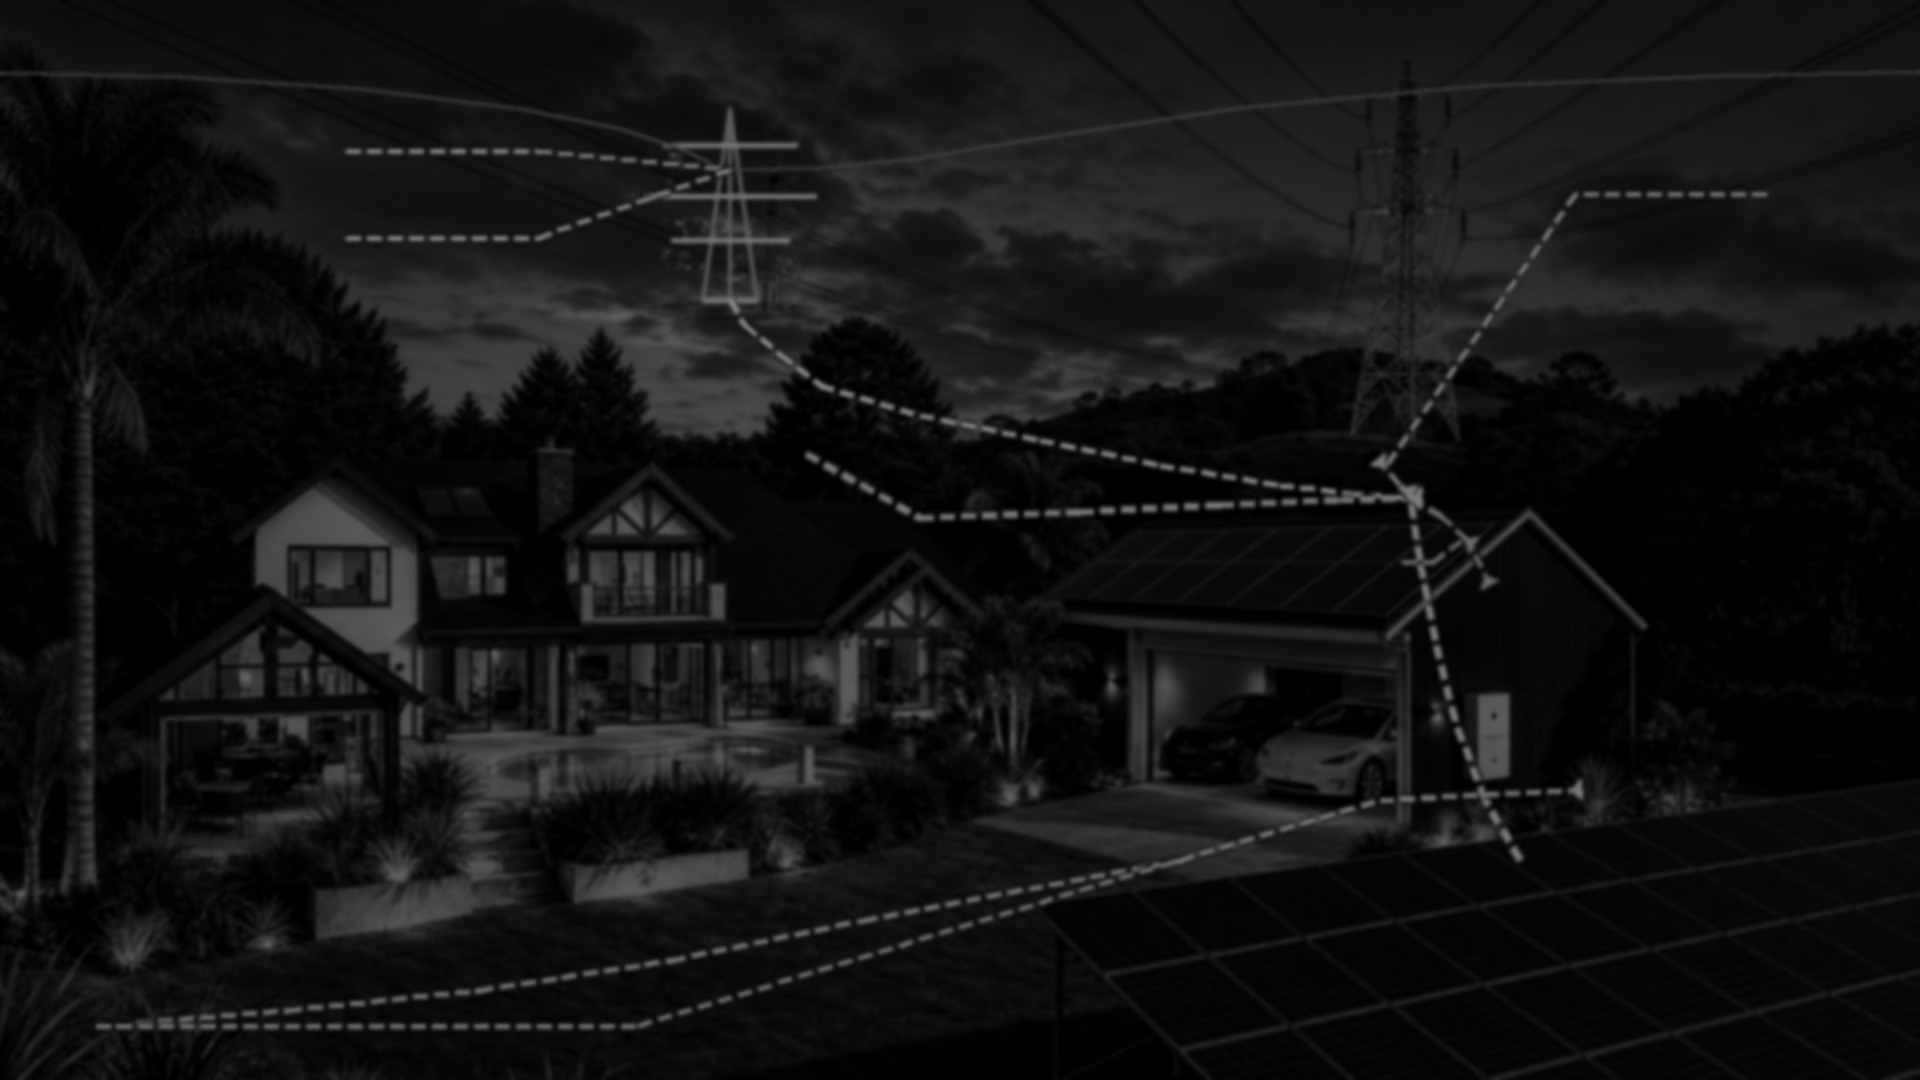
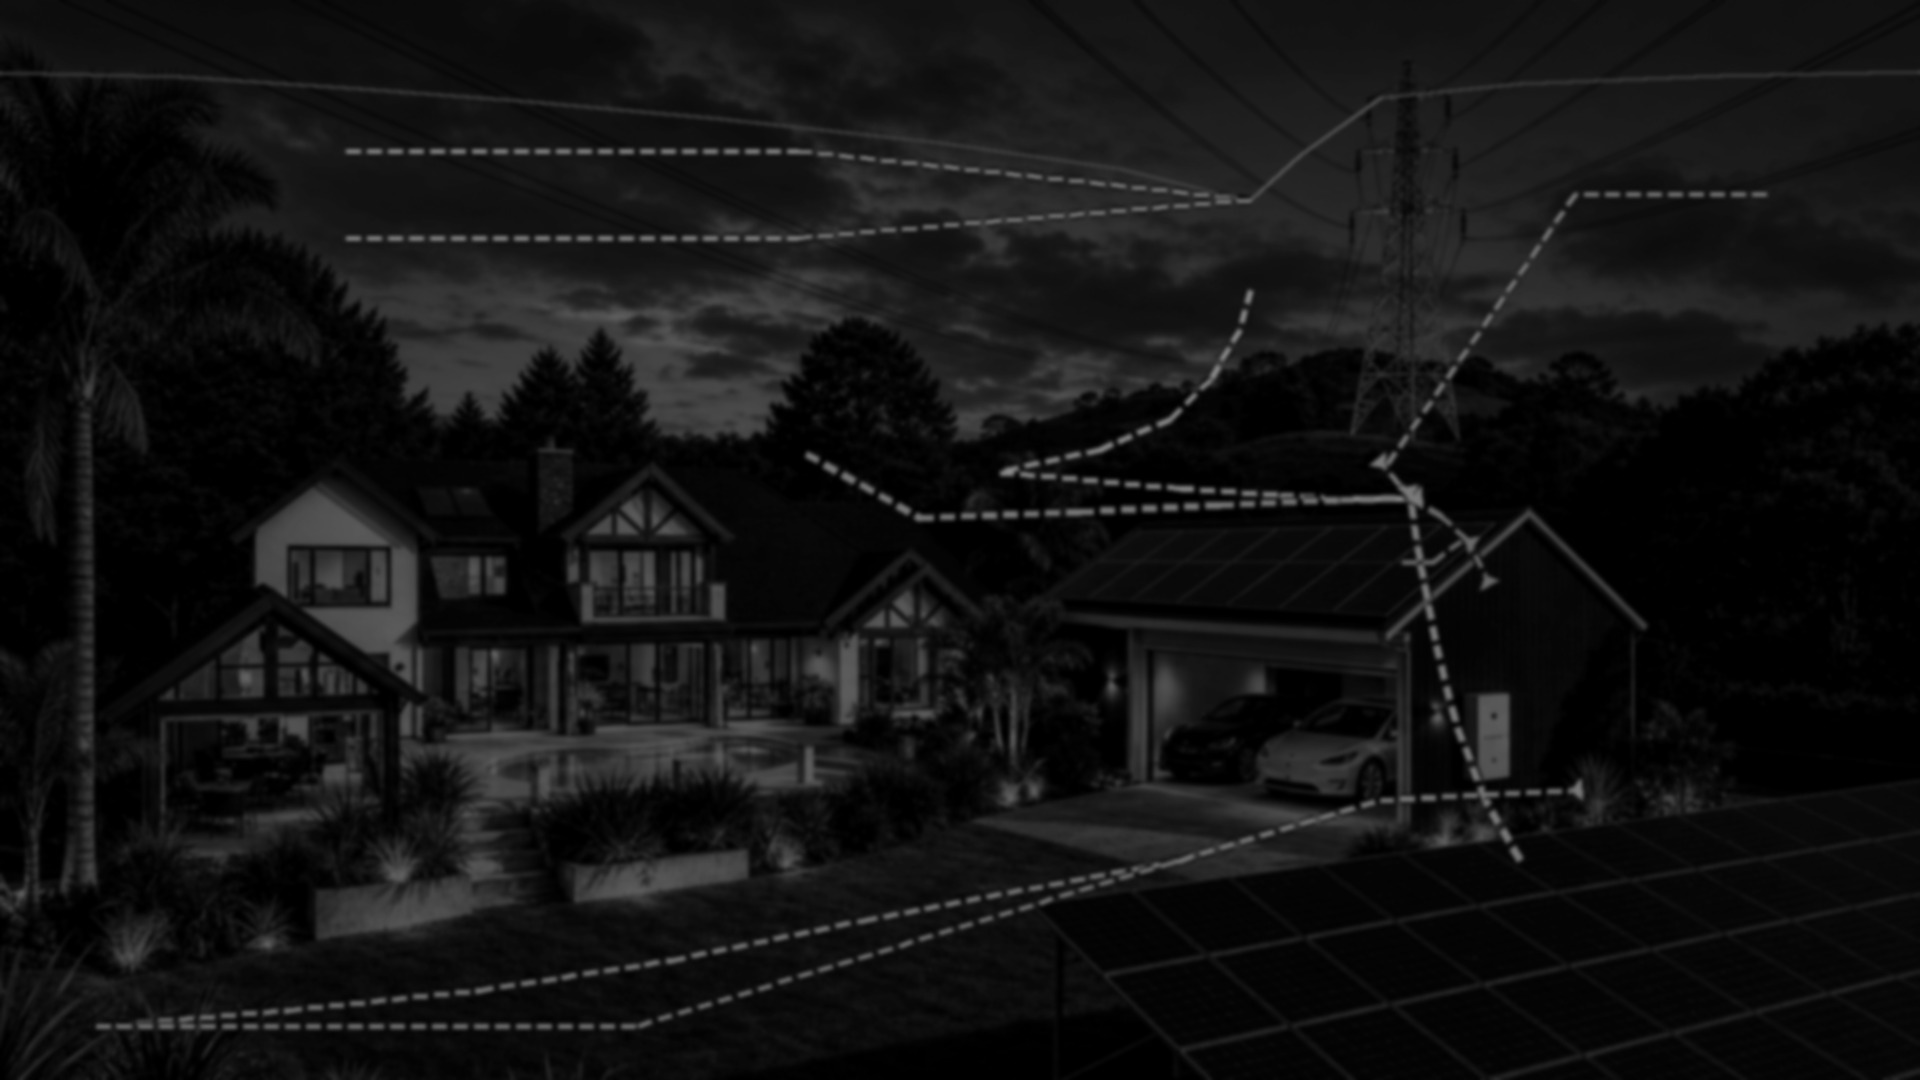
fix(solar-dashboard): remove center ghost pylon; route grid lines to right hill
Stop pasting/drawing the center-left lattice overlay at x=730. Retarget HV,
grid stubs, and site dashed paths to the master CGI tower on the right hill
(1250, 200)/(1250, 290). Optional --paste-pylon adds a 69×150 sprite at half
the former composite scale.

diff --git a/home-assistant/solar-dashboard/scripts/build_v4_backgrounds.py b/home-assistant/solar-dashboard/scripts/build_v4_backgrounds.py
@@ -1,5 +1,5 @@
 #!/usr/bin/env python3
-"""Build v4: dark-contrast CGI + composited lattice pylon + high-visibility flow lines."""
+"""Build v4: dark-contrast CGI master + HV/site flow lines (pylon from master on right hill)."""
 
 from __future__ import annotations
 
@@ -15,14 +15,15 @@ PYLON_REF = ROOT / "www" / "solar-dashboard" / "assets" / "pylon-reference.png"
 OUT = ROOT / "www" / "solar-dashboard" / "backgrounds" / "v4"
 SIZE = (1920, 1080)
 
-# Hill crest (user red arrow) — lattice tower on distant hill above house (center-left)
-PYLON_CX = 730
-PYLON_BASE_Y = 300
-PYLON_WIDTH_PX = 168
-PYLON_MAX_HEIGHT_PX = 300
+# Right hill — realistic lattice tower in master-clear (no center-left overlay)
+PYLON_CX = 1250
+PYLON_ATTACH_Y = 200
+PYLON_BASE_Y = 290
+PYLON_WIDTH_PX = 70
+PYLON_MAX_HEIGHT_PX = 150
 
 SITE = {
-    "pylon": (PYLON_CX, 170),
+    "pylon": (PYLON_CX, PYLON_ATTACH_Y),
     "pylon_base": (PYLON_CX, PYLON_BASE_Y),
     "inverter": (1410, 498),
     "battery_wall": (1385, 468),
@@ -62,14 +63,14 @@ ROUTES = {
     ],
     "grid_pylon_to_inverter": [
         SITE["pylon_base"],
-        (745, 325),
-        (780, 355),
-        (820, 385),
-        (920, 415),
-        (1040, 440),
-        (1160, 465),
-        (1280, 485),
-        (1350, 493),
+        (1240, 330),
+        (1210, 380),
+        (1170, 420),
+        (1100, 450),
+        (1000, 472),
+        (1180, 488),
+        (1280, 495),
+        (1350, 498),
         SITE["inverter"],
     ],
     "house_to_inverter": [
@@ -90,20 +91,19 @@ HV_LINES = {
         (0, 72),
         (180, 76),
         (360, 88),
-        (520, 108),
-        (620, 128),
-        (680, 148),
-        (710, 162),
+        (520, 100),
+        (720, 118),
+        (940, 142),
+        (1120, 168),
+        (1200, 188),
         SITE["pylon"],
     ],
     "from_right": [
         (1919, 72),
         (1720, 76),
-        (1480, 86),
-        (1240, 108),
-        (1040, 138),
-        (920, 158),
-        (820, 168),
+        (1520, 84),
+        (1380, 98),
+        (1300, 155),
         SITE["pylon"],
     ],
 }
@@ -150,7 +150,6 @@ def _key_sprite_background(img: Image.Image) -> Image.Image:
                 continue
             if g > 165 and r > 65 and b < 145:
                 continue
-            # Soften fringe toward dusk steel tones
             nr = int(r * 0.82)
             ng = int(g * 0.84)
             nb = int(b * 0.88)
@@ -159,9 +158,8 @@ def _key_sprite_background(img: Image.Image) -> Image.Image:
 
 
 def prepare_pylon_sprite(ref_path: Path) -> Image.Image:
-    """Extract lattice tower from reference PNG; scale for hill composite."""
+    """Extract lattice tower from reference PNG; scale ~50% for right-hill composite."""
     ref = Image.open(ref_path).convert("RGBA")
-    # Crop tower only (exclude right-hand icon and most foreground island)
     tower = ref.crop((40, 12, 200, 355))
     tower = _key_sprite_background(tower)
     tw, th = tower.size
@@ -174,10 +172,9 @@ def prepare_pylon_sprite(ref_path: Path) -> Image.Image:
     return sprite
 
 
-def composite_pylon_on_hill(base: Image.Image, sprite: Image.Image) -> Image.Image:
-    """Paste visible CGI pylon on hill crest with soft ground shadow."""
+def composite_pylon_on_right_hill(base: Image.Image, sprite: Image.Image) -> Image.Image:
+    """Optional half-scale reinforcement on right hill (master already has tower)."""
     img = base.convert("RGBA")
-    draw = ImageDraw.Draw(img, "RGBA")
     cx, base_y = PYLON_CX, PYLON_BASE_Y
     x = cx - sprite.width // 2
     y = base_y - sprite.height + 12
@@ -196,27 +193,6 @@ def draw_hv_line(draw: ImageDraw.ImageDraw, points: list[tuple[int, int]]) -> No
         draw.line([points[i], points[i + 1]], fill=HV_COLOUR, width=4)
     for i in range(len(points) - 1):
         draw.line([points[i], points[i + 1]], fill=HV_HIGHLIGHT, width=2)
-
-
-def draw_lattice_pylon(draw: ImageDraw.ImageDraw, cx: int, base_y: int) -> None:
-    """Subtle vector reinforcement on cross-arms (wires attach here)."""
-    s = 1.35
-    top = base_y - int(165 * s)
-    steel = (210, 220, 235, 255)
-    steel_dark = (155, 165, 180, 255)
-    leg = int(20 * s)
-    peak_off = int(22 * s)
-
-    for dx in (-leg, 0, leg):
-        draw.line([(cx + dx, base_y), (cx, top + peak_off)], fill=steel_dark, width=int(3 * s))
-    draw.line([(cx - leg, base_y), (cx + leg, base_y)], fill=steel, width=int(4 * s))
-
-    for arm_y, arm_w in (
-        (top + int(50 * s), int(50 * s)),
-        (top + int(88 * s), int(64 * s)),
-        (top + int(120 * s), int(44 * s)),
-    ):
-        draw.line([(cx - arm_w, arm_y), (cx + arm_w, arm_y)], fill=steel, width=int(4 * s))
 
 
 def glow_polyline(
@@ -277,11 +253,12 @@ def stub_to_target(draw: ImageDraw.ImageDraw, card: tuple[int, int], target: tup
     glow_polyline(draw, [card, mid, target], colour, width, dashed=True)
 
 
-def draw_overlays(base: Image.Image, pylon_sprite: Image.Image | None) -> Image.Image:
-    img = composite_pylon_on_hill(base, pylon_sprite) if pylon_sprite else base
-    draw = ImageDraw.Draw(img, "RGBA")
+def draw_overlays(base: Image.Image, pylon_sprite: Image.Image | None, paste_pylon: bool) -> Image.Image:
+    img = base
+    if paste_pylon and pylon_sprite:
+        img = composite_pylon_on_right_hill(base, pylon_sprite)
 
-    draw_lattice_pylon(draw, PYLON_CX, PYLON_BASE_Y)
+    draw = ImageDraw.Draw(img, "RGBA")
     draw_hv_line(draw, HV_LINES["from_left"])
     draw_hv_line(draw, HV_LINES["from_right"])
 
@@ -343,17 +320,28 @@ def main() -> None:
     parser.add_argument("--master", type=Path, default=MASTER)
     parser.add_argument("--out", type=Path, default=OUT)
     parser.add_argument("--pylon-ref", type=Path, default=PYLON_REF)
+    parser.add_argument(
+        "--paste-pylon",
+        action="store_true",
+        help="Paste half-scale sprite on right hill (default: master tower only)",
+    )
     args = parser.parse_args()
     args.out.mkdir(parents=True, exist_ok=True)
 
     pylon_sprite = prepare_pylon_sprite(args.pylon_ref) if args.pylon_ref.is_file() else None
-    if pylon_sprite:
-        print(f"pylon sprite {pylon_sprite.size} → hill ({PYLON_CX}, {PYLON_BASE_Y})")
+    if args.paste_pylon and pylon_sprite:
+        print(
+            f"pylon sprite {pylon_sprite.size} → right hill "
+            f"attach={SITE['pylon']} base={SITE['pylon_base']}"
+        )
+    elif pylon_sprite:
+        print(f"pylon ref available ({pylon_sprite.size}); using master tower only (no paste)")
     else:
-        print(f"warning: no pylon reference at {args.pylon_ref}; vector tower only")
+        print(f"warning: no pylon reference at {args.pylon_ref}; lines only")
 
     master = darken_master(crop_16_9(Image.open(args.master).convert("RGB")))
-    overlaid = draw_overlays(master, pylon_sprite)
+    overlaid = draw_overlays(master, pylon_sprite, paste_pylon=args.paste_pylon)
+    print(f"site pylon attach={SITE['pylon']} base={SITE['pylon_base']}")
     for name in ("clear", "cloudy", "covered", "very_covered", "night"):
         out = variant(overlaid, name)
         out.save(args.out / f"{name}.jpg", quality=92)
